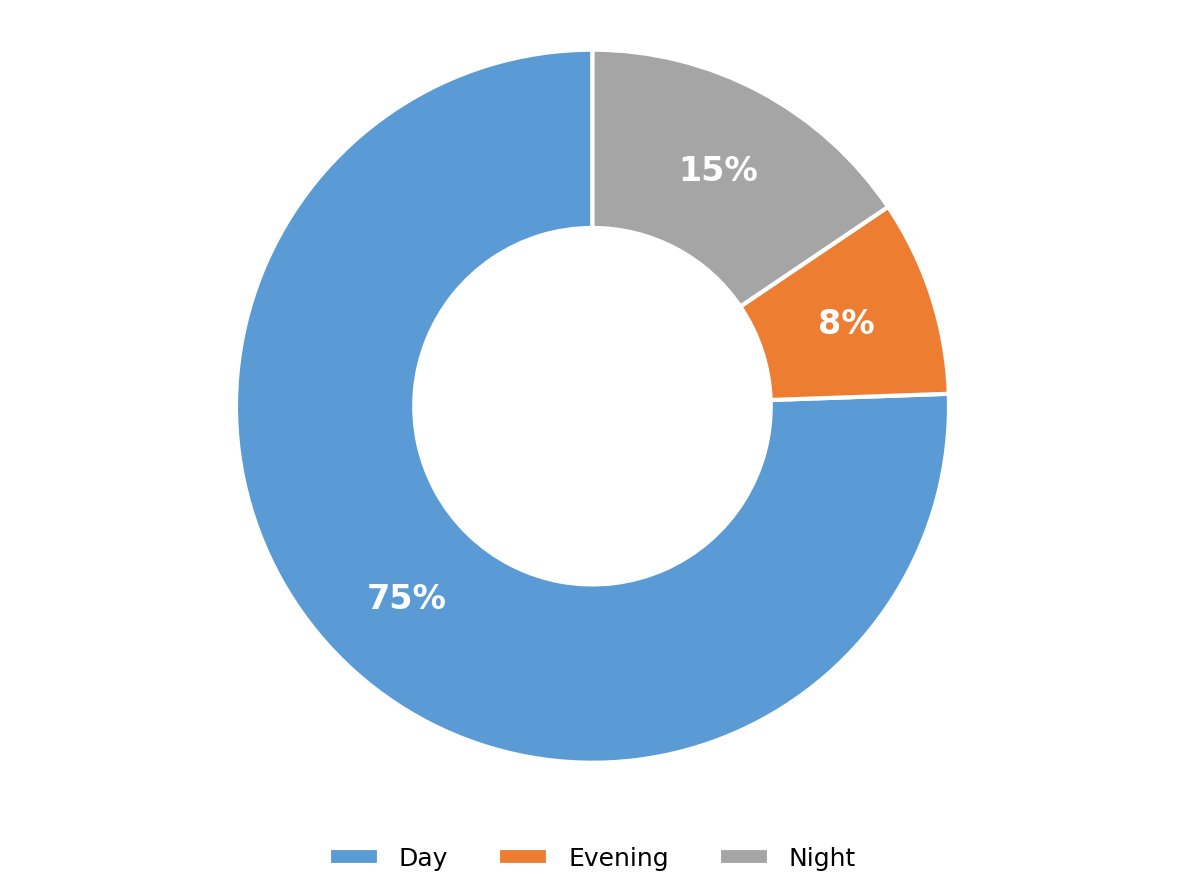
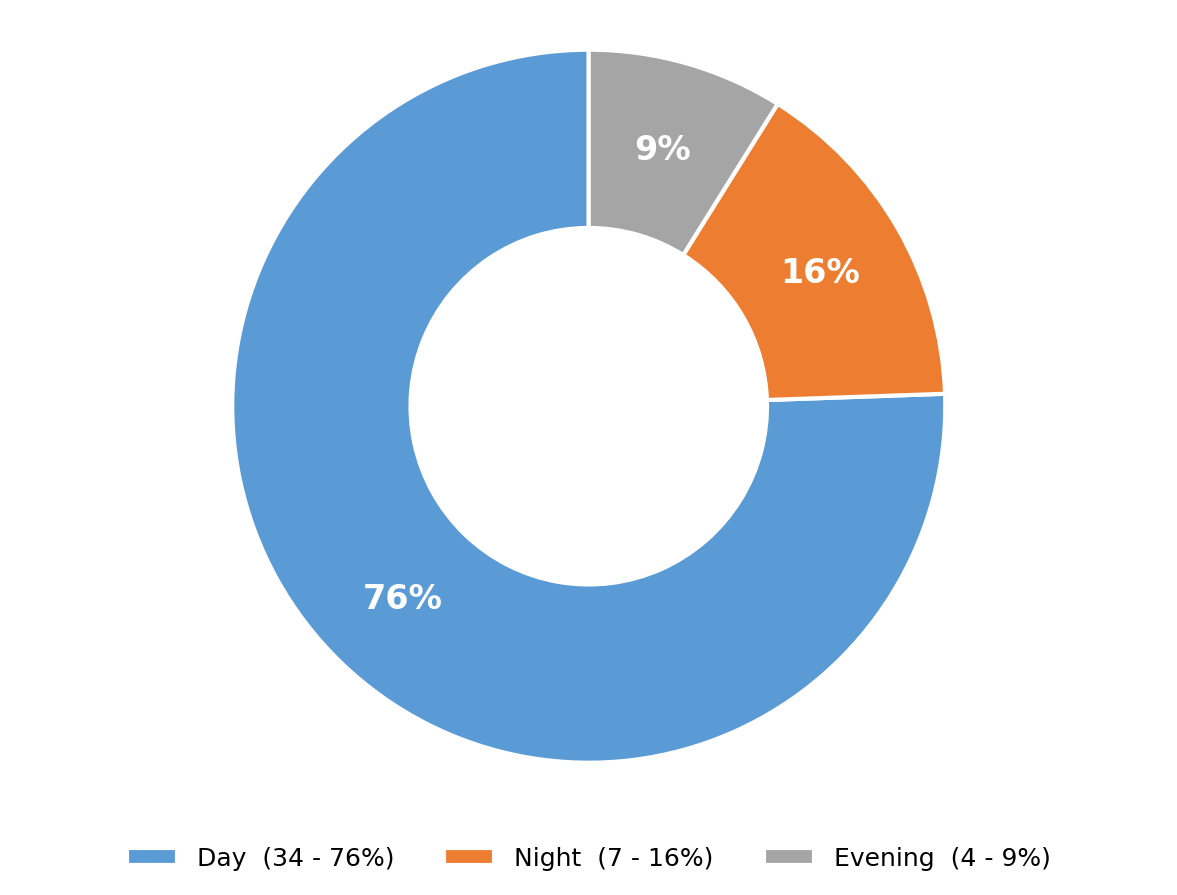
Fix medication error charts: correct rounding, colors, and legend labels
- Fix autopct truncation bug in charts 3-6 (use round() instead of %d)
- Sort pie/donut slices by descending count so largest gets primary color
- Add count + percentage to all legends: "Pharmacist (36 - 80%)"
- Fix chart 3 fallback values (were wrong percentages, now correct counts)
- Fix chart 7 X-axis label overlap using textwrap at 18 chars
- Invert X-axis on charts 1 & 2 so newest quarter appears on the left

diff --git a/python-service/app/medication_error/chart_generator.py b/python-service/app/medication_error/chart_generator.py
@@ -271,10 +271,14 @@ class MedicationErrorCharts:
 
         counts = detection_data.get('counts', {})
         if not counts:
-            counts = {'Physician': 49, 'RN': 44, 'Pharmacist': 7}
+            counts = {'Pharmacist': 36, 'RN': 7, 'HN': 2}
 
-        labels = list(counts.keys())
-        sizes  = list(counts.values())
+        # Sort descending so largest slice gets first color
+        sorted_items = sorted(counts.items(), key=lambda x: x[1], reverse=True)
+        labels = [item[0] for item in sorted_items]
+        sizes  = [item[1] for item in sorted_items]
+        total  = sum(sizes)
+
         colors = [self.COLORS['light_blue'], self.COLORS['orange'],
                   self.COLORS['gray']][:len(labels)]
 
@@ -282,7 +286,8 @@ class MedicationErrorCharts:
         fig.patch.set_facecolor('white')
 
         ax.pie(sizes, labels=None, colors=colors,
-               autopct='%d%%', startangle=90,
+               autopct=lambda p: f'{round(p):.0f}%',
+               startangle=90,
                textprops={'fontsize': 16, 'fontweight': 'bold', 'color': 'white'},
                wedgeprops={'edgecolor': 'white', 'linewidth': 2, 'width': 0.5},
                pctdistance=0.75)
@@ -290,8 +295,8 @@ class MedicationErrorCharts:
         # White center hole
         ax.add_artist(plt.Circle((0, 0), 0.50, fc='white'))
 
-        legend_labels = [f'{lb} (result id)' for lb in labels]
-        ax.legend(legend_labels, loc='lower center', bbox_to_anchor=(0.5, -0.12),
+        pct_labels = [f'{lb}  ({sz} - {round(sz/total*100):.0f}%)' for lb, sz in zip(labels, sizes)]
+        ax.legend(pct_labels, loc='lower center', bbox_to_anchor=(0.5, -0.12),
                   ncol=3, frameon=False, fontsize=10)
         ax.axis('equal')
         plt.tight_layout()
@@ -305,10 +310,14 @@ class MedicationErrorCharts:
 
         counts = shift_data.get('counts', {})
         if not counts:
-            counts = {'Day': 76, 'Evening': 9, 'Night': 16}
+            counts = {'Day': 34, 'Night': 7, 'Evening': 4}
 
-        labels = list(counts.keys())
-        sizes  = list(counts.values())
+        # Sort descending so largest slice gets first color
+        sorted_items = sorted(counts.items(), key=lambda x: x[1], reverse=True)
+        labels = [item[0] for item in sorted_items]
+        sizes  = [item[1] for item in sorted_items]
+        total  = sum(sizes)
+
         colors = [self.COLORS['light_blue'], self.COLORS['orange'],
                   self.COLORS['gray']][:len(labels)]
 
@@ -316,14 +325,16 @@ class MedicationErrorCharts:
         fig.patch.set_facecolor('white')
 
         ax.pie(sizes, labels=None, colors=colors,
-               autopct='%d%%', startangle=90,
+               autopct=lambda p: f'{round(p):.0f}%',
+               startangle=90,
                textprops={'fontsize': 16, 'fontweight': 'bold', 'color': 'white'},
                wedgeprops={'edgecolor': 'white', 'linewidth': 2, 'width': 0.5},
                pctdistance=0.75)
 
         ax.add_artist(plt.Circle((0, 0), 0.50, fc='white'))
 
-        ax.legend(labels, loc='lower center', bbox_to_anchor=(0.5, -0.12),
+        pct_labels = [f'{lb}  ({sz} - {round(sz/total*100):.0f}%)' for lb, sz in zip(labels, sizes)]
+        ax.legend(pct_labels, loc='lower center', bbox_to_anchor=(0.5, -0.12),
                   ncol=3, frameon=False, fontsize=12)
         ax.axis('equal')
         plt.tight_layout()
@@ -337,26 +348,31 @@ class MedicationErrorCharts:
 
         counts = staff_data.get('counts', {})
         if not counts:
-            counts = {'RN': 80, 'Pharmacist': 16, 'Physician': 4}
+            counts = {'RN': 20, 'Physician': 23, 'Pharmacist': 2}
 
-        labels = list(counts.keys())
-        sizes  = list(counts.values())
-        colors = [self.COLORS['orange'], self.COLORS['gray'],
-                  self.COLORS['light_blue']][:len(labels)]
+        # Sort descending so largest slice gets first color
+        sorted_items = sorted(counts.items(), key=lambda x: x[1], reverse=True)
+        labels = [item[0] for item in sorted_items]
+        sizes  = [item[1] for item in sorted_items]
+        total  = sum(sizes)
+
+        colors = [self.COLORS['light_blue'], self.COLORS['orange'],
+                  self.COLORS['gray']][:len(labels)]
 
         fig, ax = plt.subplots(figsize=(8, 6))
         fig.patch.set_facecolor('white')
 
         ax.pie(sizes, labels=None, colors=colors,
-               autopct='%d%%', startangle=90,
+               autopct=lambda p: f'{round(p):.0f}%',
+               startangle=90,
                textprops={'fontsize': 16, 'fontweight': 'bold', 'color': 'white'},
                wedgeprops={'edgecolor': 'white', 'linewidth': 2, 'width': 0.5},
                pctdistance=0.75)
 
         ax.add_artist(plt.Circle((0, 0), 0.50, fc='white'))
 
-        legend_labels = [f'{lb} (result id)' for lb in labels]
-        ax.legend(legend_labels, loc='lower center', bbox_to_anchor=(0.5, -0.12),
+        pct_labels = [f'{lb}  ({sz} - {round(sz/total*100):.0f}%)' for lb, sz in zip(labels, sizes)]
+        ax.legend(pct_labels, loc='lower center', bbox_to_anchor=(0.5, -0.12),
                   ncol=3, frameon=False, fontsize=11)
         ax.axis('equal')
         plt.tight_layout()